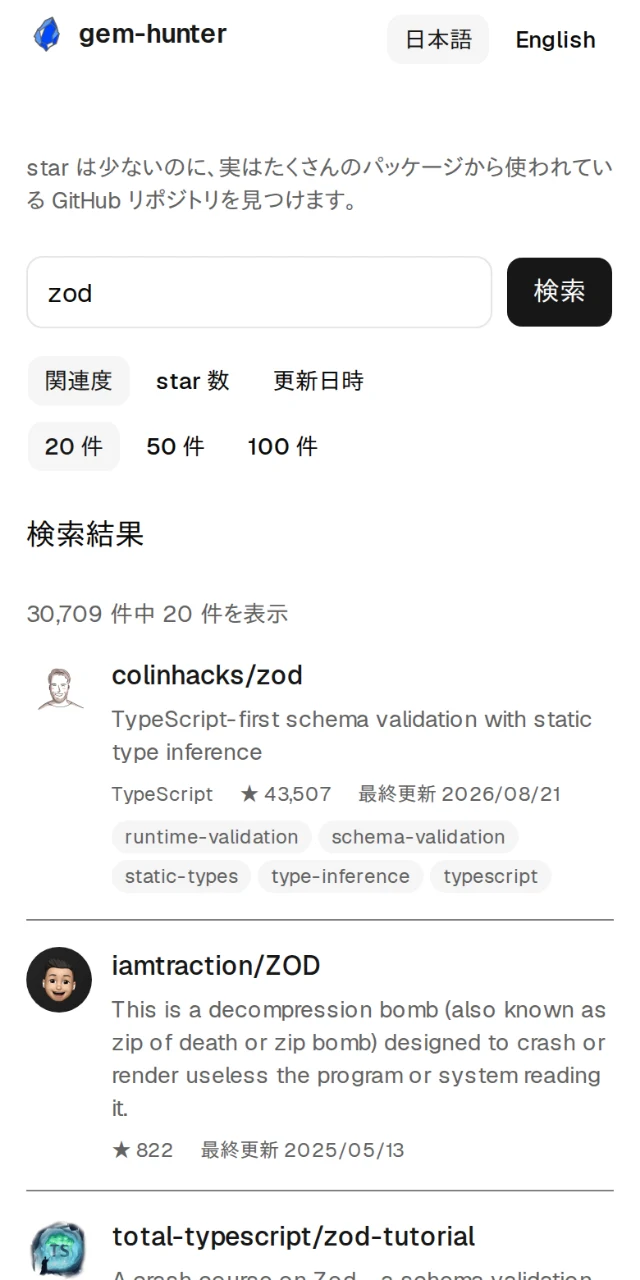
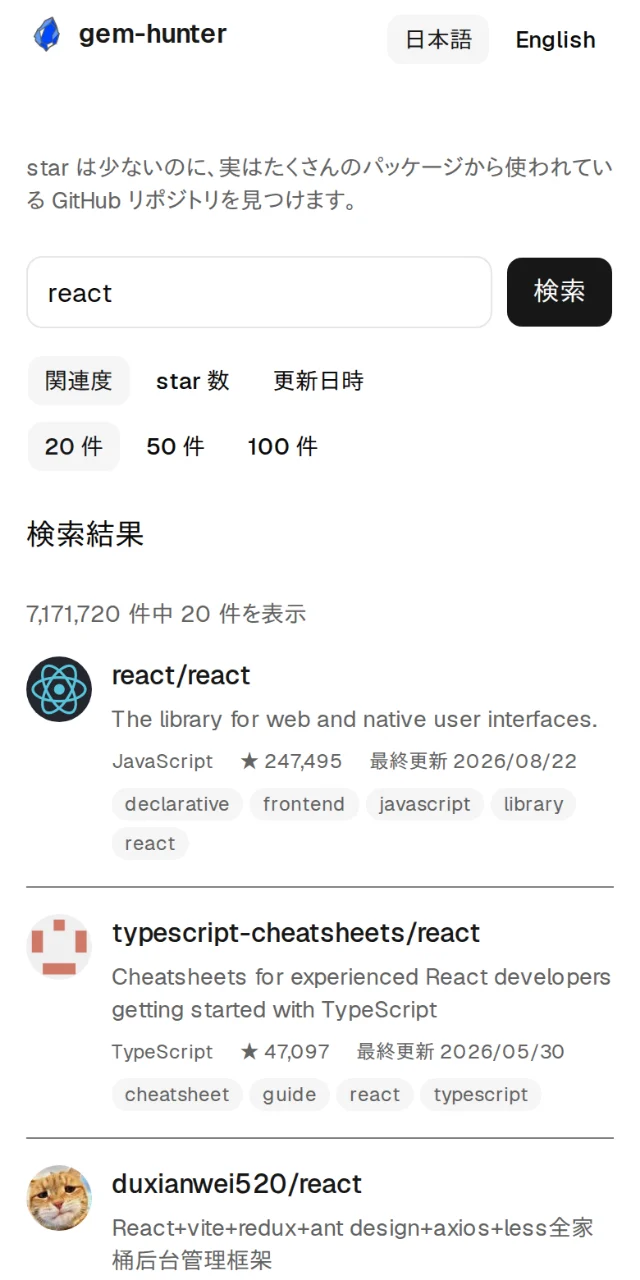
improvement: LP のファーストビューをスマホ実画面にし「PC でも使えます」の流れにする (#379)
* improvement: LP のファーストビューをスマホ実画面にし「PC でも使えます」の流れにする (#376)

- ヒーローのキャプチャを PC のブラウザモックからスマートフォンの実画面へ差し替え
- ヒーロー直後に「PC でも、そのまま使えます。」セクションを新設し PC のキャプチャを移設
- 1000px 以上ではヒーローを 2 カラムにし、ファーストビューにスマホ実画面が収まるようにした
- 画像が重複する「スマートフォンでも同じ」タイルはテキスト + タグへ整理し crop-top を削除

仮定: 「PC でも利用できます」はヒーロー直後の独立セクションで表現する（PC キャプチャは
横幅がないと文字が読めず、bento タイル内には収まらないため）

* fix: ヒーローの出現アニメーションが .hero-copy 親子で二重に掛かるのを直す

* improvement: ヒーローのスマホ実画面を PC 版と同じ「react」検索で撮り直す

ヒーロー（スマホ）と #desktop（PC）で検索キーワードが違うと「同じ URL を PC で開くと
並び替わる」という対比が成立しないため、shot-mobile を ?q=zod から ?q=react へ撮り直した。
capture_lp_screenshots.mjs の SHOTS も同じキーワードに合わせる。

---------

Changed region(s): [[0.0312, 0.4688, 0.9688, 1.0], [0.0625, 0.2188, 0.1875, 0.25]]

diff --git a/site/index.html b/site/index.html
@@ -97,46 +97,67 @@
       <!-- ============ ヒーロー ============ -->
       <section class="hero" id="top">
         <div class="wrap">
-          <p class="eyebrow">被依存数から探す GitHub 検索</p>
+          <div class="hero-copy">
+            <p class="eyebrow">被依存数から探す GitHub 検索</p>
 
-          <h1>
-            star では埋もれる、<br /><span class="em">実際に使われている</span> OSS を見つける。
-          </h1>
+            <h1>
+              star では埋もれる、<br /><span class="em">実際に使われている</span> OSS を見つける。
+            </h1>
 
-          <p class="hero-lead">
-            gem-hunter は、GitHub のキーワード検索に加えて、<strong>被依存数</strong>
-            のわりに star が少ない OSS を毎日 5 件提示する検索ツールです。被依存数とは、
-            そのリポジトリを実際に依存関係へ入れているパッケージの数のこと。
-            ブラウザで開くだけ、登録は要りません。
-          </p>
+            <p class="hero-lead">
+              gem-hunter は、GitHub のキーワード検索に加えて、<strong>被依存数</strong>
+              のわりに star が少ない OSS を毎日 5 件提示する検索ツールです。被依存数とは、
+              そのリポジトリを実際に依存関係へ入れているパッケージの数のこと。
+              スマートフォンのブラウザで開くだけ、アプリのインストールも登録も要りません。
+            </p>
 
-          <div class="hero-actions">
-            <a class="btn btn-primary" href="https://gem-hunter.kinamocchi-tech.workers.dev/ja">
-              gem-hunter を開く
-              <svg class="icon" viewBox="0 0 24 24" fill="none" stroke="currentColor" stroke-width="2" aria-hidden="true">
-                <path d="M5 12h14M13 6l6 6-6 6" stroke-linecap="round" stroke-linejoin="round" />
-              </svg>
-            </a>
-            <a class="btn btn-secondary" href="https://github.com/kai-kou/gem-hunter">
-              <svg class="icon" viewBox="0 0 16 16" fill="currentColor" aria-hidden="true">
-                <path d="M8 0C3.58 0 0 3.58 0 8c0 3.54 2.29 6.53 5.47 7.59.4.07.55-.17.55-.38 0-.19-.01-.82-.01-1.49-2.01.37-2.53-.49-2.69-.94-.09-.23-.48-.94-.82-1.13-.28-.15-.68-.52-.01-.53.63-.01 1.08.58 1.23.82.72 1.21 1.87.87 2.33.66.07-.52.28-.87.51-1.07-1.78-.2-3.64-.89-3.64-3.95 0-.87.31-1.59.82-2.15-.08-.2-.36-1.02.08-2.12 0 0 .67-.21 2.2.82.64-.18 1.32-.27 2-.27s1.36.09 2 .27c1.53-1.04 2.2-.82 2.2-.82.44 1.1.16 1.92.08 2.12.51.56.82 1.27.82 2.15 0 3.07-1.87 3.75-3.65 3.95.29.25.54.73.54 1.48 0 1.07-.01 1.93-.01 2.2 0 .21.15.46.55.38A8.01 8.01 0 0 0 16 8c0-4.42-3.58-8-8-8Z" />
-              </svg>
-              GitHub でソースを見る
-            </a>
+            <div class="hero-actions">
+              <a class="btn btn-primary" href="https://gem-hunter.kinamocchi-tech.workers.dev/ja">
+                gem-hunter を開く
+                <svg class="icon" viewBox="0 0 24 24" fill="none" stroke="currentColor" stroke-width="2" aria-hidden="true">
+                  <path d="M5 12h14M13 6l6 6-6 6" stroke-linecap="round" stroke-linejoin="round" />
+                </svg>
+              </a>
+              <a class="btn btn-secondary" href="https://github.com/kai-kou/gem-hunter">
+                <svg class="icon" viewBox="0 0 16 16" fill="currentColor" aria-hidden="true">
+                  <path d="M8 0C3.58 0 0 3.58 0 8c0 3.54 2.29 6.53 5.47 7.59.4.07.55-.17.55-.38 0-.19-.01-.82-.01-1.49-2.01.37-2.53-.49-2.69-.94-.09-.23-.48-.94-.82-1.13-.28-.15-.68-.52-.01-.53.63-.01 1.08.58 1.23.82.72 1.21 1.87.87 2.33.66.07-.52.28-.87.51-1.07-1.78-.2-3.64-.89-3.64-3.95 0-.87.31-1.59.82-2.15-.08-.2-.36-1.02.08-2.12 0 0 .67-.21 2.2.82.64-.18 1.32-.27 2-.27s1.36.09 2 .27c1.53-1.04 2.2-.82 2.2-.82.44 1.1.16 1.92.08 2.12.51.56.82 1.27.82 2.15 0 3.07-1.87 3.75-3.65 3.95.29.25.54.73.54 1.48 0 1.07-.01 1.93-.01 2.2 0 .21.15.46.55.38A8.01 8.01 0 0 0 16 8c0-4.42-3.58-8-8-8Z" />
+                </svg>
+                GitHub でソースを見る
+              </a>
+            </div>
+
+            <ul class="assurance">
+              <li>登録不要</li>
+              <li>無料</li>
+              <li>広告・トラッキングなし</li>
+              <li class="assurance-extra">MIT ライセンス</li>
+            </ul>
+
+            <p class="hero-alt-link">
+              <a href="https://gem-hunter.kinamocchi-tech.workers.dev/ja"
+                >キーワードなしで開いて「今日の Gem」を見る</a
+              >
+            </p>
           </div>
 
-          <ul class="assurance">
-            <li>登録不要</li>
-            <li>無料</li>
-            <li>広告・トラッキングなし</li>
-            <li class="assurance-extra">MIT ライセンス</li>
-          </ul>
-
-          <p class="hero-alt-link">
-            <a href="https://gem-hunter.kinamocchi-tech.workers.dev/ja"
-              >キーワードなしで開いて「今日の Gem」を見る</a
-            >
-          </p>
+          <div class="shot-stage">
+            <figure class="phone">
+              <span class="phone-speaker" aria-hidden="true"></span>
+              <div class="phone-screen">
+                <img
+                  src="./assets/img/shot-mobile.webp"
+                  width="640"
+                  height="1280"
+                  fetchpriority="high"
+                  decoding="async"
+                  alt="スマートフォンで表示した gem-hunter の検索結果画面。「react」で検索し、検索欄の下に関連度・star 数・更新日時の並び替えと 20 / 50 / 100 件の表示件数の切り替えが並び、その下にリポジトリ名・説明・主要言語・star 数・最終更新日・トピックが縦に積み重なっている。"
+                />
+              </div>
+            </figure>
+            <p class="shot-caption">
+              スマートフォンで「react」を検索した実際の画面です（検索結果は GitHub API から取得しています）。
+            </p>
+          </div>
 
           <div class="samples">
             <p class="samples-label" id="samples-label">キーワードの例（クリックでそのまま検索）</p>
@@ -148,8 +169,22 @@
               <li><a class="chip" href="https://gem-hunter.kinamocchi-tech.workers.dev/ja?q=rollup+plugin">rollup plugin</a></li>
             </ul>
           </div>
+        </div>
+      </section>
 
-          <div class="shot-stage">
+      <!-- ============ PC でも使える ============ -->
+      <section class="section" id="desktop">
+        <div class="wrap">
+          <div class="section-head reveal">
+            <p class="kicker">画面幅</p>
+            <h2>PC でも、そのまま使えます。</h2>
+            <p>
+              同じ URL を PC のブラウザで開くと、縦に積み重なっていた要素が横に並び替わります。
+              スマートフォン用と PC 用でアプリを使い分ける必要はありません。
+            </p>
+          </div>
+
+          <div class="shot-stage reveal">
             <figure class="browser">
               <div class="browser-bar">
                 <span class="dots" aria-hidden="true"><span></span><span></span><span></span></span>
@@ -162,13 +197,15 @@
                   src="./assets/img/shot-search.webp"
                   width="1600"
                   height="1025"
-                  fetchpriority="high"
+                  loading="lazy"
                   decoding="async"
-                  alt="gem-hunter の検索結果画面。「react」で検索し、リポジトリ名・説明・主要言語・star 数・最終更新日・トピックが一覧で並んでいる。上部には関連度・star 数・更新日時の並び替えと、20 / 50 / 100 件の表示件数の切り替えがある。"
+                  alt="PC の画面幅で表示した gem-hunter の検索結果画面。「react」で検索し、リポジトリ名・説明・主要言語・star 数・最終更新日・トピックが一覧で並んでいる。上部には関連度・star 数・更新日時の並び替えと、20 / 50 / 100 件の表示件数の切り替えがある。"
                 />
               </div>
             </figure>
-            <p class="shot-caption">実際の画面です（検索結果は GitHub API から取得しています）。</p>
+            <p class="shot-caption">
+              PC の画面幅で「react」を検索したところです（検索結果は GitHub API から取得しています）。
+            </p>
           </div>
         </div>
       </section>
@@ -343,23 +380,17 @@
                 <svg class="icon" viewBox="0 0 24 24" fill="none" stroke="currentColor" stroke-width="2" aria-hidden="true">
                   <rect x="6" y="2" width="12" height="20" rx="3" /><path d="M11 18h2" stroke-linecap="round" />
                 </svg>
-                スマートフォンでも同じ
+                スマートフォンで取りこぼさない
               </h3>
               <p>
-                同じ画面がそのまま縦に積み替わります。主要導線のタップ領域は 44px、
-                入力欄は 16px 以上で iOS の自動ズームも起きません。
+                主要導線のタップ領域は 44px、入力欄は 16px 以上で iOS の自動ズームも起きません。
+                画面幅が変わっても、同じ機能がそのまま縦に積み替わるだけです。
               </p>
-              <figure class="tile-figure">
-                <img
-                  src="./assets/img/shot-mobile.webp"
-                  width="640"
-                  height="1280"
-                  loading="lazy"
-                  decoding="async"
-                  alt="スマートフォン幅で表示した gem-hunter の検索結果。ヘッダー、検索欄、並び替え、リポジトリカードが縦に積み重なっている。"
-                  class="crop-top"
-                />
-              </figure>
+              <ul class="tag-list">
+                <li>タップ領域 44px</li>
+                <li>入力欄 16px</li>
+                <li>自動ズームなし</li>
+              </ul>
             </div>
 
             <div class="tile">

diff --git a/site/assets/styles.css b/site/assets/styles.css
@@ -445,6 +445,39 @@ summary {
   color: var(--accent);
 }
 
+/* ---- スクリーンショット（スマートフォンのフレーム） ---- */
+
+.phone {
+  width: min(248px, 58vw);
+  margin-inline: auto;
+  padding: 10px 10px 14px;
+  border: 1px solid var(--hairline);
+  border-radius: 34px;
+  background: var(--bg-subtle);
+  box-shadow: var(--shadow-lg);
+}
+
+.phone-speaker {
+  display: block;
+  width: 48px;
+  height: 5px;
+  margin: 2px auto 10px;
+  border-radius: 999px;
+  background: var(--hairline);
+}
+
+.phone-screen {
+  border: 1px solid var(--hairline);
+  border-radius: 24px;
+  overflow: hidden;
+  background: var(--bg);
+}
+
+.phone-screen img {
+  display: block;
+  width: 100%;
+}
+
 /* ---- スクリーンショット（ブラウザフレーム） ---- */
 
 .shot-stage {
@@ -774,13 +807,6 @@ summary {
   width: 100%;
 }
 
-/* shot-mobile.webp（640×1280）の上部だけを見せ、同じ行のタイルと行高を揃える */
-.tile-figure img.crop-top {
-  max-height: 320px;
-  object-fit: cover;
-  object-position: top;
-}
-
 
 .icon {
   width: 20px;
@@ -1059,7 +1085,9 @@ summary {
 
 /* 読み込み直後のヒーローだけは時間ベースでフェードさせる（必ず終わる） */
 @media (prefers-reduced-motion: no-preference) {
-  .hero > .wrap > * {
+  /* .hero-copy 自身は除く（親子で同じ移動が二重に掛かるのを避ける） */
+  .hero > .wrap > *:not(.hero-copy),
+  .hero-copy > * {
     animation: hero-in 0.5s cubic-bezier(0.22, 0.61, 0.36, 1) both;
   }
   .hero .eyebrow {
@@ -1158,15 +1186,22 @@ summary {
   }
 
   .browser,
-  .browser-bar {
+  .browser-bar,
+  .phone,
+  .phone-screen {
     background: var(--shot-frame-bg);
     border-color: var(--shot-frame-border);
   }
 
-  .browser {
+  .browser,
+  .phone {
     box-shadow:
       0 0 0 1px var(--shot-frame-ring),
       0 24px 60px oklch(0 0 0 / 0.6);
+  }
+
+  .phone-speaker {
+    background: var(--shot-frame-border);
   }
 
   .url-pill {
@@ -1189,8 +1224,8 @@ summary {
 
 /* ============================ 追加コンポーネント ============================ */
 
-/* ヒーロー内の要素順（モバイルではキーワード例をスクリーンショットの下へ回す） */
-.hero > .wrap {
+/* ヒーロー内の要素順（コピー → 実画面 → キーワード例。DOM 順がそのまま表示順） */
+.hero-copy {
   display: flex;
   flex-direction: column;
   align-items: stretch;
@@ -1205,14 +1240,37 @@ summary {
   font-size: 0.9375rem;
 }
 
-@media (max-width: 640px) {
-  .hero .samples {
-    order: 10;
-    margin-top: 24px;
+/* 広い画面ではヒーローを 2 カラムにし、スマートフォンの実画面をファーストビューへ収める */
+@media (min-width: 1000px) {
+  .hero > .wrap {
+    display: grid;
+    grid-template-columns: minmax(0, 1fr) minmax(0, 300px);
+    column-gap: clamp(32px, 5vw, 72px);
+    align-items: start;
+  }
+
+  .hero-copy {
+    grid-column: 1;
+    grid-row: 1;
   }
 
   .hero .shot-stage {
-    order: 5;
+    grid-column: 2;
+    grid-row: 1 / span 2;
+    align-self: center;
+    margin-top: 0;
+  }
+
+  .hero .samples {
+    grid-column: 1;
+    grid-row: 2;
+    margin-top: clamp(24px, 3vw, 36px);
+  }
+}
+
+@media (max-width: 640px) {
+  .hero .samples {
+    margin-top: 24px;
   }
 
   /* fold を詰める。MIT ライセンスは最終 CTA とフッターに出ている */
